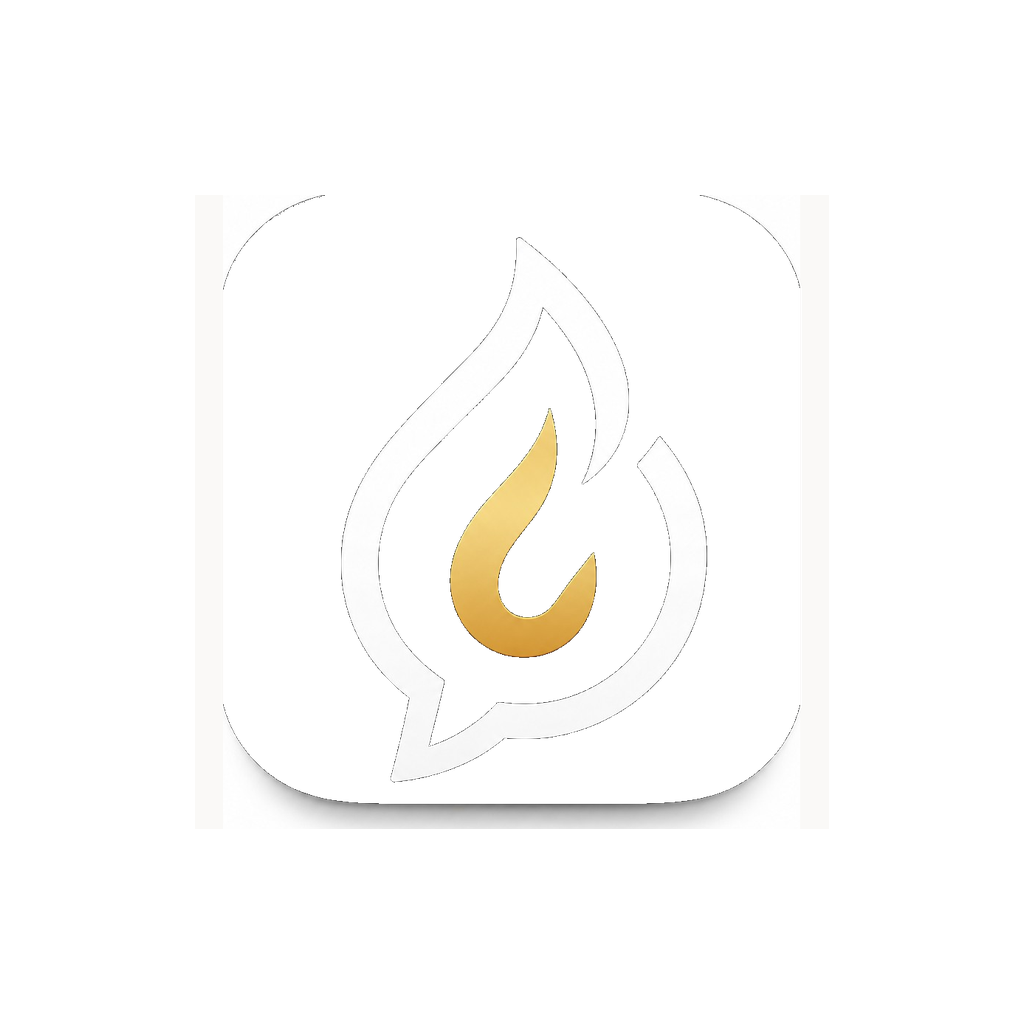
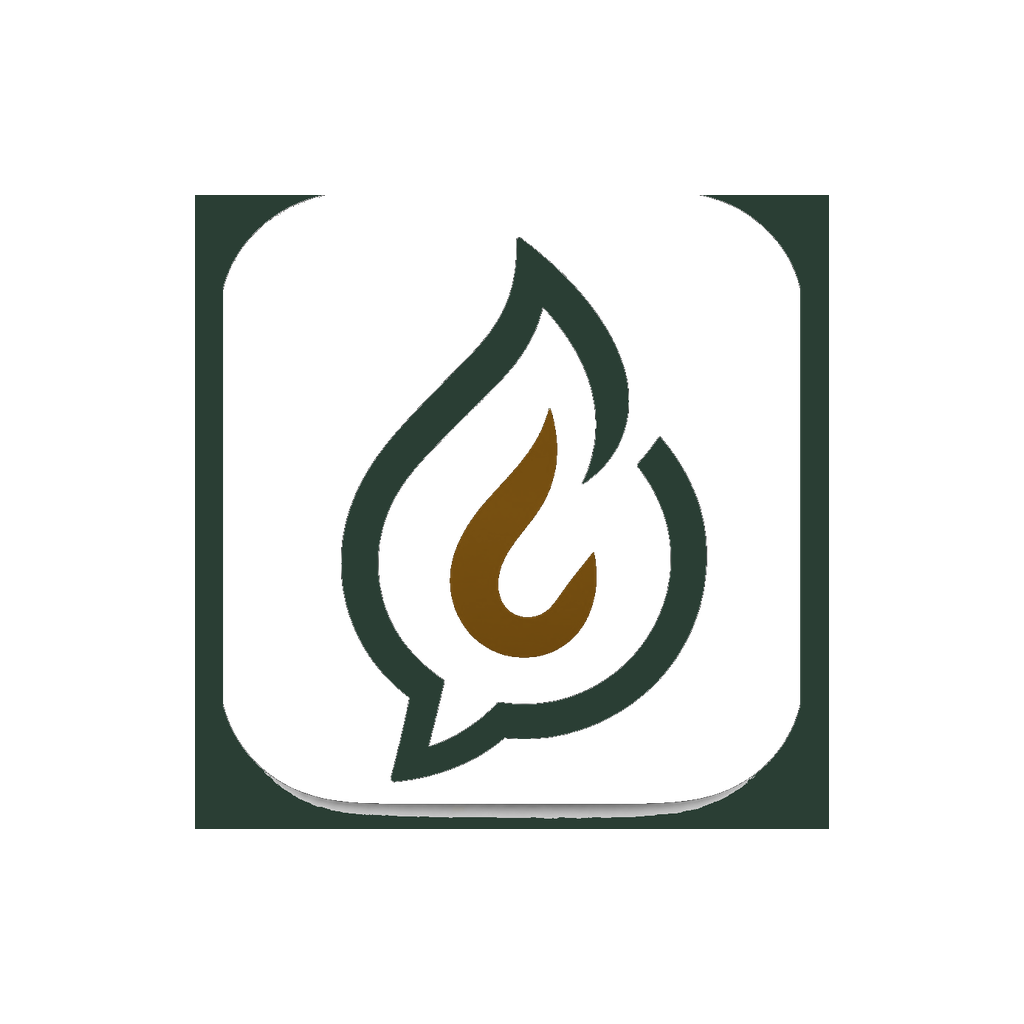
polishheader

Changed region(s): [[0.1875, 0.1875, 0.8125, 0.8125]]

diff --git a/app/(tabs)/_layout.tsx b/app/(tabs)/_layout.tsx
@@ -1,7 +1,7 @@
-import { Redirect } from 'expo-router';
-import { SymbolView } from 'expo-symbols';
-import { Tabs } from 'expo-router';
+import { Redirect, Tabs } from 'expo-router';
 
+import { BrandHeaderTitle } from '@/components/navigation/BrandHeaderTitle';
+import { BrandTabIcon } from '@/components/navigation/BrandTabIcon';
 import { ProfileMenuButton } from '@/components/navigation/ProfileMenuButton';
 import { NotificationBootstrap } from '@/components/notifications/NotificationBootstrap';
 import { LoadingScreen } from '@/components/ui/Screen';
@@ -31,90 +31,65 @@ export default function TabLayout() {
     <>
       <NotificationBootstrap />
       <Tabs
-      screenOptions={{
-        headerShown: true,
-        headerStyle: { backgroundColor: theme.colors.background },
-        headerTitleStyle: {
-          color: theme.colors.text,
-          fontSize: 17,
-          fontWeight: '600',
-        },
-        headerShadowVisible: false,
-        headerRight: () => (
-          <ProfileMenuButton />
-        ),
-        headerRightContainerStyle: {
-          paddingRight: theme.spacing.md,
-        },
-        tabBarStyle: {
-          backgroundColor: theme.colors.surface,
-          borderTopColor: theme.colors.border,
-        },
-        tabBarActiveTintColor: theme.colors.accent,
-        tabBarInactiveTintColor: theme.colors.textMuted,
-      }}>
-      <Tabs.Screen
-        name="index"
-        options={{
-          title: 'Today',
-          tabBarLabel: 'Today',
-          tabBarIcon: ({ color }) => (
-            <SymbolView
-              name={{ ios: 'sun.max', android: 'wb_sunny', web: 'wb_sunny' }}
-              tintColor={color}
-              size={24}
-            />
-          ),
-        }}
-      />
-      <Tabs.Screen
-        name="pray"
-        options={{
-          title: 'Pray',
-          tabBarIcon: ({ color }) => (
-            <SymbolView
-              name={{
-                ios: 'hands.sparkles',
-                android: 'volunteer_activism',
-                web: 'volunteer_activism',
-              }}
-              tintColor={color}
-              size={24}
-            />
-          ),
-        }}
-      />
-      <Tabs.Screen
-        name="groups"
-        options={{
-          title: 'Groups',
-          tabBarIcon: ({ color }) => (
-            <SymbolView
-              name={{ ios: 'person.3', android: 'groups', web: 'groups' }}
-              tintColor={color}
-              size={24}
-            />
-          ),
-        }}
-      />
-      <Tabs.Screen
-        name="journey"
-        options={{
-          title: 'Journey',
-          tabBarIcon: ({ color }) => (
-            <SymbolView
-              name={{
-                ios: 'point.bottomleft.forward.to.point.topright.scurvepath',
-                android: 'timeline',
-                web: 'timeline',
-              }}
-              tintColor={color}
-              size={24}
-            />
-          ),
-        }}
-      />
-    </Tabs>
+        screenOptions={{
+          headerShown: true,
+          headerStyle: { backgroundColor: theme.colors.background },
+          headerShadowVisible: false,
+          headerTitle: () => null,
+          headerLeftContainerStyle: {
+            paddingLeft: theme.spacing.md,
+            flex: 1,
+          },
+          headerRight: () => <ProfileMenuButton />,
+          headerRightContainerStyle: {
+            paddingRight: theme.spacing.md,
+          },
+          tabBarStyle: {
+            backgroundColor: theme.colors.surface,
+            borderTopColor: theme.colors.border,
+            paddingTop: 6,
+          },
+          tabBarActiveTintColor: theme.colors.accentDark,
+          tabBarInactiveTintColor: theme.colors.textMuted,
+          tabBarLabelStyle: {
+            fontSize: 11,
+            fontWeight: '600',
+          },
+        }}>
+        <Tabs.Screen
+          name="index"
+          options={{
+            title: 'Today',
+            headerLeft: () => <BrandHeaderTitle title="Today" />,
+            tabBarLabel: 'Today',
+            tabBarIcon: ({ focused }) => <BrandTabIcon name="today" focused={focused} />,
+          }}
+        />
+        <Tabs.Screen
+          name="pray"
+          options={{
+            title: 'Pray',
+            headerLeft: () => <BrandHeaderTitle title="Pray" />,
+            tabBarIcon: ({ focused }) => <BrandTabIcon name="pray" focused={focused} size={28} />,
+          }}
+        />
+        <Tabs.Screen
+          name="groups"
+          options={{
+            title: 'Groups',
+            headerLeft: () => <BrandHeaderTitle title="Groups" />,
+            tabBarIcon: ({ focused }) => <BrandTabIcon name="groups" focused={focused} />,
+          }}
+        />
+        <Tabs.Screen
+          name="journey"
+          options={{
+            title: 'Journey',
+            headerLeft: () => <BrandHeaderTitle title="Journey" />,
+            tabBarIcon: ({ focused }) => <BrandTabIcon name="journey" focused={focused} />,
+          }}
+        />
+      </Tabs>
     </>
   );
 }

diff --git a/components/navigation/BrandTabIcon.tsx b/components/navigation/BrandTabIcon.tsx
@@ -1,0 +1,61 @@
+import { SymbolView } from 'expo-symbols';
+import { Image, StyleSheet, View } from 'react-native';
+
+import { theme } from '@/constants/theme';
+
+export type BrandTabName = 'today' | 'pray' | 'groups' | 'journey';
+
+const INACTIVE_ICONS = {
+  today: { ios: 'sun.max.fill' as const, android: 'sunny' as const, web: 'sunny' as const },
+  pray: {
+    ios: 'hands.sparkles.fill' as const,
+    android: 'folded_hands' as const,
+    web: 'folded_hands' as const,
+  },
+  groups: { ios: 'person.2.fill' as const, android: 'groups' as const, web: 'groups' as const },
+  journey: {
+    ios: 'book.fill' as const,
+    android: 'auto_stories' as const,
+    web: 'auto_stories' as const,
+  },
+};
+
+type BrandTabIconProps = {
+  name: BrandTabName;
+  focused: boolean;
+  size?: number;
+};
+
+/** Inactive: a simple symbol. Focused: the brand flame, so it travels with you. */
+export function BrandTabIcon({ name, focused, size = 26 }: BrandTabIconProps) {
+  if (focused) {
+    return (
+      <View style={styles.wrap}>
+        <Image
+          source={require('@/assets/images/brand-mark.png')}
+          style={{ width: size + 2, height: size + 2 }}
+          resizeMode="contain"
+        />
+      </View>
+    );
+  }
+
+  return (
+    <View style={styles.wrap}>
+      <SymbolView
+        name={INACTIVE_ICONS[name]}
+        size={size}
+        tintColor={theme.colors.textMuted}
+      />
+    </View>
+  );
+}
+
+const styles = StyleSheet.create({
+  wrap: {
+    alignItems: 'center',
+    justifyContent: 'center',
+    minWidth: 32,
+    minHeight: 32,
+  },
+});

diff --git a/components/navigation/BrandHeaderTitle.tsx b/components/navigation/BrandHeaderTitle.tsx
@@ -1,0 +1,60 @@
+import { Image, StyleSheet, View } from 'react-native';
+
+import { AppText } from '@/components/ui/AppText';
+import { theme } from '@/constants/theme';
+
+type BrandHeaderTitleProps = {
+  title: string;
+};
+
+/** Upper-left brand: flame mark + PrayerCare, with the screen name as a quiet line. */
+export function BrandHeaderTitle({ title }: BrandHeaderTitleProps) {
+  return (
+    <View
+      style={styles.wrap}
+      accessibilityRole="header"
+      accessibilityLabel={`PrayerCare, ${title}`}>
+      <Image
+        source={require('@/assets/images/brand-mark.png')}
+        style={styles.mark}
+        resizeMode="contain"
+        accessibilityIgnoresInvertColors
+      />
+      <View style={styles.textCol}>
+        <AppText style={styles.brand}>PrayerCare</AppText>
+        <AppText style={styles.title}>{title}</AppText>
+      </View>
+    </View>
+  );
+}
+
+const styles = StyleSheet.create({
+  wrap: {
+    flexDirection: 'row',
+    alignItems: 'center',
+    gap: 10,
+    paddingVertical: 2,
+  },
+  mark: {
+    width: 36,
+    height: 36,
+  },
+  textCol: {
+    justifyContent: 'center',
+    gap: 1,
+  },
+  brand: {
+    fontSize: 17,
+    lineHeight: 22,
+    fontWeight: '600',
+    color: theme.colors.text,
+    letterSpacing: -0.2,
+  },
+  title: {
+    fontSize: 12,
+    lineHeight: 16,
+    fontWeight: '500',
+    color: theme.colors.accentDark,
+    letterSpacing: 0.4,
+  },
+});

diff --git a/scripts/generate_brand_assets.py b/scripts/generate_brand_assets.py
@@ -92,6 +92,41 @@ def extract_mark(icon_rgba: Image.Image) -> Image.Image:
     return out.crop(bbox) if bbox else out
 
 
+def darken_mark_for_cream(mark: Image.Image) -> Image.Image:
+    """Make outline + flame darker so the mark reads clearly on cream UI."""
+    # Deep forest outline + bronze flame so the mark reads on cream
+    OUTLINE = (42, 62, 52, 255)
+    GOLD_LIGHT = (122, 82, 18, 255)
+    GOLD_DARK = (88, 56, 10, 255)
+
+    im = mark.convert("RGBA")
+    w, h = im.size
+    px = im.load()
+    out = Image.new("RGBA", (w, h), (0, 0, 0, 0))
+    out_px = out.load()
+
+    for y in range(h):
+        for x in range(w):
+            r, g, b, a = px[x, y]
+            if a < 12:
+                continue
+            # Near-white / light gray outline → sage
+            if r >= 200 and g >= 200 and b >= 200:
+                out_px[x, y] = OUTLINE
+                continue
+            # Gold / yellow flame → deepen
+            if r > g and r > b and (r - b) > 30:
+                # Blend toward darker gold by brightness
+                t = max(0.0, min(1.0, (r - 120) / 135.0))
+                nr = int(GOLD_DARK[0] * (1 - t) + GOLD_LIGHT[0] * t)
+                ng = int(GOLD_DARK[1] * (1 - t) + GOLD_LIGHT[1] * t)
+                nb = int(GOLD_DARK[2] * (1 - t) + GOLD_LIGHT[2] * t)
+                out_px[x, y] = (nr, ng, nb, a)
+                continue
+            out_px[x, y] = (r, g, b, a)
+    return out
+
+
 def to_rgb(im: Image.Image, bg=(0, 0, 0)) -> Image.Image:
     rgb = Image.new("RGB", im.size, bg)
     rgba = im.convert("RGBA")
@@ -113,8 +148,9 @@ def main() -> None:
     print("square tile:", tile.size)
 
     mark = extract_mark(tile)
+    mark_ui = darken_mark_for_cream(mark)
 
-    # Marketing masters (black tile for reference; transparent mark)
+    # Marketing masters
     m2048 = fit_centered(tile, 2048, CREAM, scale=1.0)
     to_rgb(m2048, CREAM_RGB).save(BRAND / "prayercare-icon-2048.png", "PNG")
     fit_centered(mark, 2048, (0, 0, 0, 0), scale=0.72).save(
@@ -122,37 +158,37 @@ def main() -> None:
     )
     print("brand masters saved in assets/brand/")
 
-    # 1) App icon — mark on cream (#FAF9F7), matches splash + app background
-    icon = fit_centered(mark, 1024, CREAM, scale=0.78)
+    # App / splash / store icons use darker mark on cream (visible)
+    icon = fit_centered(mark_ui, 1024, CREAM, scale=0.78)
     icon_rgb = to_rgb(icon, CREAM_RGB)
     icon_rgb.save(IMAGES / "icon.png", "PNG")
     print("icon.png", icon_rgb.size, icon_rgb.mode)
 
-    # 2) Splash — same mark, slightly inset on cream
-    splash = fit_centered(mark, 1024, CREAM, scale=0.70)
+    splash = fit_centered(mark_ui, 1024, CREAM, scale=0.70)
     splash_rgb = to_rgb(splash, CREAM_RGB)
     splash_rgb.save(IMAGES / "splash-icon.png", "PNG")
     print("splash-icon.png", splash_rgb.size)
 
-    # 3) Android foreground — mark only, ~62% safe zone
-    fg = fit_centered(mark, 1024, (0, 0, 0, 0), scale=0.62)
+    fg = fit_centered(mark_ui, 1024, (0, 0, 0, 0), scale=0.62)
     fg.save(IMAGES / "android-icon-foreground.png", "PNG")
     print("android-icon-foreground.png", fg.size)
 
-    # 4) Android background — solid cream (matches icon + splash)
     Image.new("RGB", (1024, 1024), CREAM_RGB).save(IMAGES / "android-icon-background.png", "PNG")
     print("android-icon-background.png 1024x1024 cream")
 
-    # 5) Favicon 96×96
     fav = icon_rgb.resize((96, 96), Image.Resampling.LANCZOS)
     fav.save(IMAGES / "favicon.png", "PNG")
     print("favicon.png", fav.size)
 
-    # Monochrome themed icon (white silhouette)
-    mono = Image.new("RGBA", mark.size, (0, 0, 0, 0))
-    for y in range(mark.height):
-        for x in range(mark.width):
-            if mark.getpixel((x, y))[3] > 20:
+    # Compact UI mark for headers / tab bar (transparent PNG)
+    ui_mark = fit_centered(mark_ui, 256, (0, 0, 0, 0), scale=0.92)
+    ui_mark.save(IMAGES / "brand-mark.png", "PNG")
+    print("brand-mark.png", ui_mark.size)
+
+    mono = Image.new("RGBA", mark_ui.size, (0, 0, 0, 0))
+    for y in range(mark_ui.height):
+        for x in range(mark_ui.width):
+            if mark_ui.getpixel((x, y))[3] > 20:
                 mono.putpixel((x, y), (255, 255, 255, 255))
     fit_centered(mono, 432, (0, 0, 0, 0), scale=0.62).save(
         IMAGES / "android-icon-monochrome.png", "PNG"
